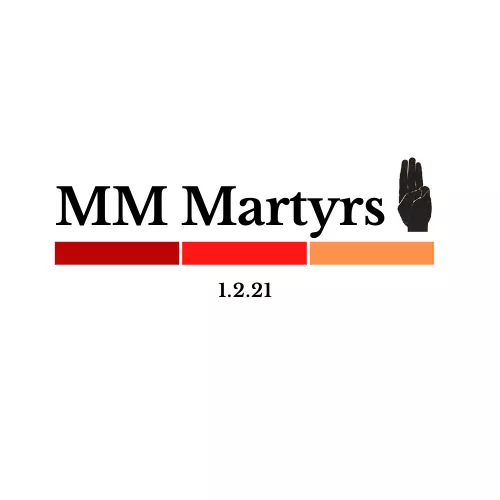
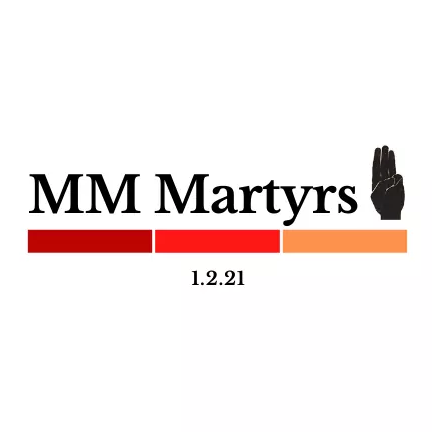
- WIP: localization

Changed region(s): [[0.0602, 0.3009, 0.963, 0.662]]

diff --git a/public/web/css/headerFooter-style.css b/public/web/css/headerFooter-style.css
@@ -125,9 +125,22 @@ p {
 }
 
 #header .logo img {
-  width: 100%;
+  width: auto;
+  height: 100px;
   overflow: hidden;
 }
+
+.locale-icon {
+  height: 24px;
+  width: 36px;
+  display: inline-block;
+}
+
+/* .change-locale {
+  display: inline-block !important;
+  margin: auto !important;
+  text-align: right;
+} */
 
 .menu {
   float: right;

diff --git a/public/web/css/style.css b/public/web/css/style.css
@@ -283,11 +283,7 @@ textarea {
   padding: 0 2rem;
 }
 
-.locale-icon {
-  height: 24px;
-  width: 36px;
-  display: inline-block;
-}
+
 
 @media only screen and (max-width: 1024px) and (min-width: 641px) {
   .inputDataBox {

diff --git a/resources/views/web/inform/detained.blade.php b/resources/views/web/inform/detained.blade.php
@@ -7,33 +7,33 @@
     <div class="inputContainer">
         <div class="inputDataBox">
             <div class="mainHeader">
-                <h3>Arrestee's Info</h3>
+                <h3>{{ __('ui.arrestee_info') }}</h3>
             </div>
             <div class="leftInfo">
                 <div class="inputBox">
                     <div class="inputHeader">
-                        <p>Name</p>
+                        <p>{{ __('ui.name') }}</p>
                     </div>
                     <div class="inputValue">
-                        <input type="text" placeholder="someone" name="name" autofocus />
+                        <input type="text" placeholder="{{ __('ui.name_placeholder') }}" name="name" autofocus />
                     </div>
                 </div>
                 <div class="inputBox">
                     <div class="inputHeader">
-                        <p>Age</p>
+                        <p>{{ __('ui.age') }}</p>
                     </div>
                     <div class="inputValue">
-                        <input type="number" id="age" name="age" min="10" max="99" />
+                        <input type="number" id="age" name="age" min="1" max="99" />
                     </div>
                 </div>
                 <div class="inputBox">
                     <div class="inputHeader">
-                        <p>Gender</p>
+                        <p>{{ __('ui.gender') }}</p>
                     </div>
                     <div class="inputValue">
                         <select id="gender" name="gender">
-                            <option value="male">Male</option>
-                            <option value="female">Female</option>
+                            <option value="male">{{ __('ui.male') }}</option>
+                            <option value="female">{{ __('ui.female') }}</option>
                         </select>
                     </div>
                 </div>
@@ -97,20 +97,16 @@
 
                 <div class="inputBox">
                     <div class="inputHeader">
-                        <p>Association</p>
+                        <p>{{ __('ui.association') }}</p>
                     </div>
                     <div class="inputValue">
-                        <input
-                            type="text"
-                            placeholder="University/Organization/Department .etc"
-                            name="association"
-                        />
+                        <input type="text" placeholder="University/Organization/Department .etc" name="association" />
                     </div>
                 </div>
 
                 <div class="inputBox">
                     <div class="inputHeader">
-                        <p>Arrested Date</p>
+                        <p>{{ __('ui.arrested_date') }}</p>
                     </div>
                     <div class="inputValue">
                         <input type="date" id="arrested_date" name="arrested_date" />
@@ -119,17 +115,17 @@
 
                 <div class="inputBox">
                     <div class="inputHeader">
-                        <p>Reason of being arrested</p>
+                        <p>{{ __('ui.arrested_reason') }}</p>
                     </div>
                     <div class="inputValue">
                         <select id="township" name="township">
-                            <option value="protesting">Protester</option>
-                            <option value="political">Bystander</option>
-                            <option value="noreason">Others</option>
+                            <option value="protesting">{{ __('ui.protestor') }}</option>
+                            <option value="political">{{ __('ui.bystander') }}</option>
+                            <option value="noreason">{{ __('ui.others') }}</option>
                         </select>
                     </div>
                     <div class="inputValue" style="display: none">
-                        <input type="text" placeholder="please specify" name="name" />
+                        <input type="text" placeholder="{{ __('ui.please_specify') }}" name="name" />
                     </div>
                 </div>
             </div>
@@ -137,52 +133,54 @@
             <div class="rightInfo">
                 <div class="inputBox">
                     <div class="inputHeader">
-                        <p>Prison</p>
+                        <p>{{ __('ui.prison') }}</p>
                     </div>
                     <div class="inputValue">
-                        <input type="text" placeholder="If sent to prison" name="name" />
+                        <input type="text" placeholder="{{ __('ui.prison_placeholder') }}" name="name" />
+                    </div>
+                </div>
+
+                <div class="inputBox">
+                    <div class="inputHeader">
+                        <p>{{ __('ui.arrestee_pic') }}</p>
                     </div>
                 </div>
                 <div class="inputBoxImg">
+
                     <input type="file" id="myFile" name="filename" />
                 </div>
 
-                <h3>Informer's Info</h3>
+                <h3>{{ __('ui.informer_info') }}</h3>
                 <div class="inputBox">
                     <div class="inputHeader">
-                        <p>Name</p>
+                        <p>{{ __('ui.name') }}</p>
                     </div>
                     <div class="inputValue">
-                        <input type="text" placeholder="someone" name="name" />
+                        <input type="text" placeholder="{{ __('ui.name_placeholder') }}" name="name" />
                     </div>
                 </div>
 
                 <div class="inputBox">
                     <div class="inputHeader">
-                        <p>Relationship with arrestee</p>
+                        <p>{{ __('ui.relationship_with_arrestee') }}</p>
                     </div>
                     <div class="inputValue">
-                        <input type="text" placeholder="someone" name="name" />
+                        <input type="text" placeholder="{{ __('ui.relationship_placeholder') }}" name="name" />
                     </div>
                 </div>
 
                 <div class="inputBox">
                     <div class="inputHeader">
-                        <p>Informer's contact no</p>
+                        <p>{{ __('ui.informer_phone') }}</p>
                     </div>
                     <div class="inputValue">
-                        <input
-                            type="number"
-                            id="age"
-                            placeholder="09xxxxxxxxx"
-                            name="age"
-                        />
+                        <input type="number" id="age" placeholder="09xxxxxxxxx" name="age" />
                     </div>
                 </div>
             </div>
         </div>
         <div class="submitButton">
-            <button type="submit">Submit</button>
+            <button type="submit">{{ __('ui.submit') }}</button>
         </div>
     </div>
 

diff --git a/resources/views/layout/web/master.blade.php b/resources/views/layout/web/master.blade.php
@@ -41,9 +41,9 @@
                 {{-- <div class="row"> --}}
                 {{-- <div class="col-md-12"> --}}
                 <button id="primary-nav-button" style="right: 0;" type="button">Menu</button>
-                <a href="index.html">
+                <a href="{{ route('index') }}">
                     <div class="logo">
-                        <img src="{{ asset('web/img/logo.png') }} " alt="Venue Logo" />
+                        <img src="{{ asset('images/icon.png') }} " alt="Venue Logo" />
                     </div>
                 </a>
                 <nav id="primary-nav" class="dropdown cf">
@@ -68,11 +68,10 @@
                             <ul class="sub-menu">
                                 @foreach ($constants::LOCALE_MAP as $locale => $arr)
                                     <li>
-
                                         <a href="#" class="change-locale" data-value={{ $locale }}>
+                                            {{ $arr['text'] }} &nbsp;
                                             <img class="locale-icon" src="{{ asset($arr['pic']) }}" />
-                                            {{-- &nbsp; --}}
-                                            {{ $arr['text'] }}</a>
+                                        </a>
                                     </li>
                                 @endforeach
                             </ul>
@@ -98,12 +97,11 @@
                 <div class="col-md-5">
                     <div class="about-veno">
                         <div class="logo">
-                            <img src="{{ asset('web/img/footer_logo.png') }} " alt="Venue Logo" />
+                            <img style="height: 100px;width: 100%;object-fit:contain;" src="
+                                {{ asset('images/icon.png') }} " alt=" Venue Logo" />
                         </div>
                         <p>
-                            Mauris sit amet quam congue, pulvinar urna et, congue diam.
-                            Suspendisse eu lorem massa. Integer sit amet posuere tellus, id
-                            efficitur leo. In hac habitasse platea dictumst.
+                            {{ __('ui.footer_long_text') }}
                         </p>
                         <ul class="social-icons">
                             <li>
@@ -166,7 +164,7 @@
                 <div class="col-md-3">
                     <div class="contact-info">
                         <div class="footer-heading">
-                            <h4>Contact Information</h4>
+                            <h4>{{ __('ui.contact_information') }}</h4>
                         </div>
                         <p>
                             Praesent iaculis gravida elementum. Proin fermentum neque

diff --git a/resources/views/web/index.blade.php b/resources/views/web/index.blade.php
@@ -25,14 +25,14 @@
                         <div class="whiteBox">
                             <div class="rightText">
                                 <h3>77</h3>
-                                <p>Dead</p>
+                                <p>{{ __('ui.dead') }}</p>
                                 <div class="subRightText">
                                     <h3>60</h3>
                                     <h3>70</h3>
                                 </div>
                                 <div class="subRightText">
-                                    <p>Gunshot</p>
-                                    <p>Assault</p>
+                                    <p>{{ __('ui.gunshot') }}</p>
+                                    <p>{{ __('ui.assault') }}</p>
                                 </div>
                             </div>
                             <div class="leftText">
@@ -103,13 +103,13 @@
             <div class="row">
                 <div class="col-md-12">
                     <div class="section-heading">
-                        <h2>Detained Civilians</h2>
-                        <span>Latest Arrested Civilians</span>
+                        <h2>{{ __('ui.detained_civilians') }}</h2>
+                        <span>{{ __('ui.latest_arrested_civilians') }}</span>
                     </div>
                 </div>
             </div>
             <p class="browse"><a href="./ListPage.html">
-                    Browse All
+                    {{ __('ui.browse_all') }}
                 </a></p>
             <div class="row">
                 <div class="col-md-3 col-sm-6 col-xs-12">

diff --git a/resources/lang/mm/ui.php b/resources/lang/mm/ui.php
@@ -1,5 +1,41 @@
 <?php
 
 return [
-    'home' => 'Eain',
+    'home' => 'Home',
+    'about_us' => 'About us',
+    'experience_sharing' => 'Experience Sharing',
+    'inform_us' => 'Inform Us',
+    'detained' => 'Detained',
+    'dead' => 'Dead',
+    'about_us_long' => 'Suspendisse eu lorem massa. Integer sit amet posuere tellus.',
+    'discover_more' => 'Discover More',
+    'as_of_date' => "As of :date",
+    'lang' => 'Lang',
+    "footer_long_text" => "Mauris sit amet quam congue, pulvinar urna et, congue diam.
+    Suspendisse eu lorem massa. Integer sit amet posuere tellus, id
+    efficitur leo. In hac habitasse platea dictumst.",
+    "contact_information" => "Contact Information",
+    "gunshot" => 'gunshot',
+    "assault" => "Assault",
+    "detained_civilians" => "Detained Civilians",
+    "latest_arrested_civilians" => "Latest Arrested Civilians",
+    "browse_all" => "Browse All",
+    "arrestee_info" => "Arrestee Information",
+    "name" => "Name",
+    "name_placeholder" => "Someone",
+    "age" => "Age",
+    "gender" => "Gender",
+    "male" => "Male",
+    "female" => "Female",
+    "association" => "Association",
+    "arrested_date" => 'Arrested Date',
+    "arrested_reason" => "Reason of being arrested",
+    "protestor" => "Protester",
+    "others" => "Others",
+    "bystander" => "Bystander",
+    "others_placeholder" => "Please specify",
+    "prison" => "Prison",
+    "prison_placeholder" => "If sent to prison",
+    "arrestee_pic" => "Please upload arrestee picture",
+    "informer_info" => "Informer's Info"
 ];

diff --git a/resources/lang/en/ui.php b/resources/lang/en/ui.php
@@ -11,4 +11,35 @@ return [
     'discover_more' => 'Discover More',
     'as_of_date' => "As of :date",
     'lang' => 'Lang',
+    "footer_long_text" => "Mauris sit amet quam congue, pulvinar urna et, congue diam.
+    Suspendisse eu lorem massa. Integer sit amet posuere tellus, id
+    efficitur leo. In hac habitasse platea dictumst.",
+    "contact_information" => "Contact Information",
+    "gunshot" => 'gunshot',
+    "assault" => "Assault",
+    "detained_civilians" => "Detained Civilians",
+    "latest_arrested_civilians" => "Latest Arrested Civilians",
+    "browse_all" => "Browse All",
+    "arrestee_info" => "Arrestee Information",
+    "name" => "Name",
+    "name_placeholder" => "Someone",
+    "age" => "Age",
+    "gender" => "Gender",
+    "male" => "Male",
+    "female" => "Female",
+    "association" => "Association",
+    "arrested_date" => 'Arrested Date',
+    "arrested_reason" => "Reason of being arrested",
+    "protestor" => "Protester",
+    "others" => "Others",
+    "bystander" => "Bystander",
+    "others_placeholder" => "Please specify",
+    "prison" => "Prison",
+    "prison_placeholder" => "If sent to prison",
+    "arrestee_pic" => "Please upload arrestee picture",
+    "informer_info" => "Informer's Info",
+    "relationship_with_arrestee" => "Relationship with arrestee",
+    "relationship_placeholder" => "Please describe your relationship with victim",
+    "informer_phone" => "Informer's phone-number",
+    "submit" => "Submit"
 ];
